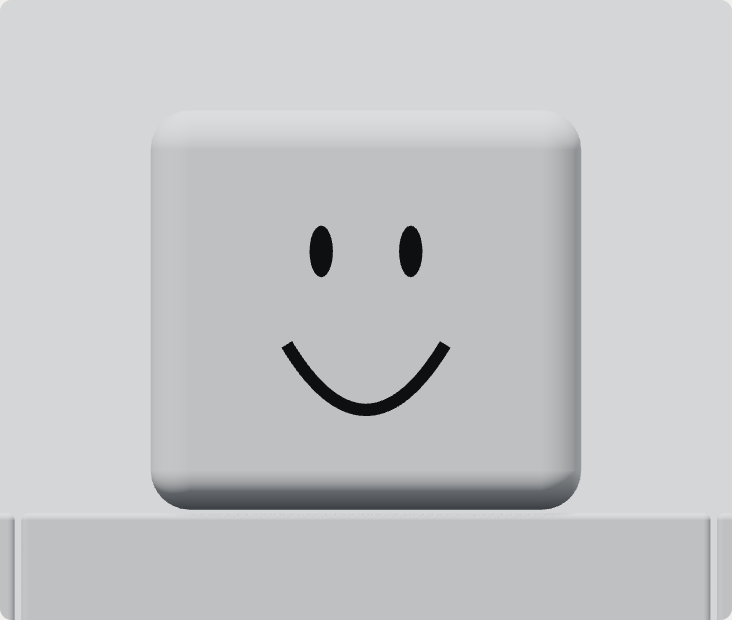
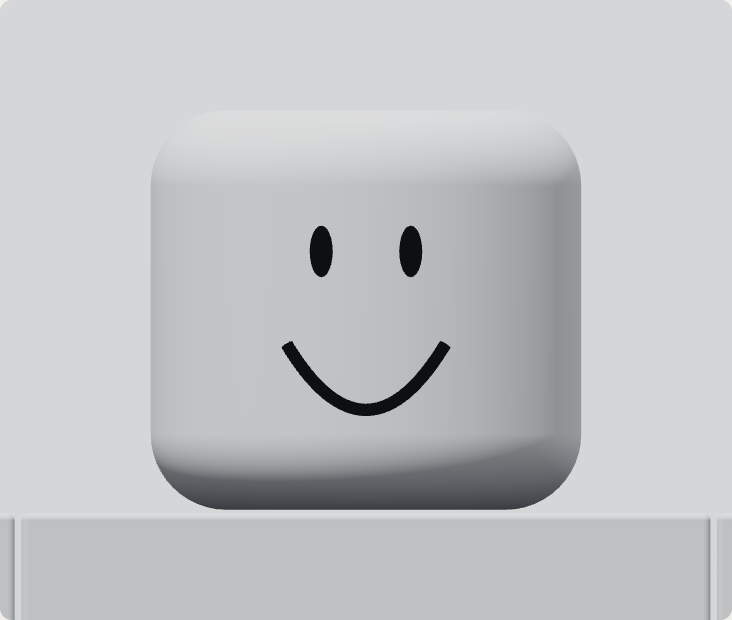
Round canonical head and wrap facial features to match user reference

Changed region(s): [[0.1803, 0.2758, 0.8115, 0.8274], [0.7514, 0.2145, 0.8115, 0.2758], [0.1803, 0.2452, 0.2104, 0.2758]]

diff --git a/tests/api.js b/tests/api.js
@@ -1,6 +1,7 @@
 import assert from 'node:assert/strict';
 import * as THREE from 'three';
 import {createBaseAvatar} from '../avatar/baseAvatar.js';
+import {headFrontZ} from '../avatar/headGeometry.js';
 import {applyPose} from '../avatar/poses.js';
 import {applyFace} from '../appearance/faces.js';
 import {applyAppearance} from '../appearance/appearance.js';
@@ -19,3 +20,10 @@ applyAppearance(a,{color:0xdddddd,pieces:{head:0xffffff},cosmetic:'cap'});const 
 assert.equal(a.root,root);assert.deepEqual(Object.values(a.parts),parts);assert.equal(parts.filter(m=>m.isMesh).length,6);
 assert.throws(()=>applyPose(a,'invalid'));assert.throws(()=>applyFace(a,'invalid'));assert.throws(()=>applyAppearance(a,{cosmetic:'invalid'}));
 console.log('PASS: real Three.js imports, six meshes, five pivots, bounds, deterministic reset, face/cap caches, removal and identity');
+
+assert.equal(a.parts.head.geometry.type,'LatheGeometry');
+const headSize=bounds('head').getSize(new THREE.Vector3());
+assert(Math.abs(headSize.x-1.25)<1e-6 && Math.abs(headSize.y-1.16)<1e-6 && Math.abs(headSize.z-1.1)<1e-6);
+assert(headFrontZ(.23)<headFrontZ(0)-.03,'face must wrap onto curved head');
+for(const child of smile.children){assert(child.geometry.getAttribute('position').array.every(Number.isFinite));}
+console.log('PASS: rounded lathed head dimensions and curved face surface');

diff --git a/appearance/faces.js b/appearance/faces.js
@@ -1,11 +1,12 @@
 import * as THREE from 'three';
+import {headFrontZ} from '../avatar/headGeometry.js';
 function makeFace(name){
  const group=new THREE.Group();group.name=`face_${name}`;
  if(name==='blank')return group;
  const material=new THREE.MeshBasicMaterial({color:0x202124});
- for(const x of [-.13,.13]){const eye=new THREE.Mesh(new THREE.SphereGeometry(1,16,12),material);eye.scale.set(.034,.075,.012);eye.position.set(x,.75,.557);group.add(eye);}
+ for(const x of [-.13,.13]){const eye=new THREE.Mesh(new THREE.SphereGeometry(1,16,12),material);eye.scale.set(.034,.075,.012);eye.position.set(x,.75,headFrontZ(x)+.007);eye.rotation.y=Math.atan2(x/.625**2,headFrontZ(x)/.55**2);group.add(eye);}
  const points=[];
- for(let i=0;i<=32;i++){const x=-.23+.46*i/32;const y=name==='classic_smile'?.29+.19*(x/.23)**2:.42-.13*(x/.23)**2;points.push(new THREE.Vector3(x,y,.558));}
+ for(let i=0;i<=32;i++){const x=-.23+.46*i/32;const y=name==='classic_smile'?.29+.19*(x/.23)**2:.42-.13*(x/.23)**2;points.push(new THREE.Vector3(x,y,headFrontZ(x)+.01));}
  const curve=new THREE.CatmullRomCurve3(points);
  group.add(new THREE.Mesh(new THREE.TubeGeometry(curve,40,.018,8,false),material));return group;
 }

diff --git a/avatar/headGeometry.js b/avatar/headGeometry.js
@@ -1,0 +1,23 @@
+import * as THREE from 'three';
+
+// Original lathed head: oval horizontal section, straight cheeks, softly rolled
+// top/bottom rims and flat caps. Dimensions stay 1.25 × 1.16 × 1.10.
+export function createHeadGeometry() {
+ const radius=.625, halfHeight=.58, rim=.22;
+ const profile=[new THREE.Vector2(0,-halfHeight),new THREE.Vector2(radius-rim,-halfHeight)];
+ for(let i=1;i<=12;i++){
+  const angle=-Math.PI/2+i*Math.PI/24;
+  profile.push(new THREE.Vector2(radius-rim+rim*Math.cos(angle),-halfHeight+rim+rim*Math.sin(angle)));
+ }
+ profile.push(new THREE.Vector2(radius,halfHeight-rim));
+ for(let i=1;i<=12;i++){
+  const angle=i*Math.PI/24;
+  profile.push(new THREE.Vector2(radius-rim+rim*Math.cos(angle),halfHeight-rim+rim*Math.sin(angle)));
+ }
+ profile.push(new THREE.Vector2(0,halfHeight));
+ const geometry=new THREE.LatheGeometry(profile,96);
+ geometry.scale(1,1,1.1/1.25);
+ return geometry;
+}
+// Facial features follow the curved front, instead of floating on a flat plane.
+export function headFrontZ(x){return .55*Math.sqrt(1-(x/.625)**2);}

diff --git a/avatar/baseAvatar.js b/avatar/baseAvatar.js
@@ -1,4 +1,5 @@
 import * as THREE from 'three';
+import {createHeadGeometry} from './headGeometry.js';
 import { RoundedBoxGeometry } from 'three/addons/geometries/RoundedBoxGeometry.js';
 export function block(name, size, color, radius=.02) {
  const mesh=new THREE.Mesh(new RoundedBoxGeometry(...size,4,radius),new THREE.MeshStandardMaterial({color,roughness:.86}));
@@ -10,6 +11,8 @@ export function createBaseAvatar({color=0xbfc1c3}={}) {
  function pivot(name,position){const p=new THREE.Group();p.name=name;p.position.set(...position);root.add(p);pivots[name]=p;return p;}
  part('torso',[2,2,1],root,[0,3.02,0]);
  part('head',[1.25,1.16,1.1],pivot('head',[0,4.03,0]),[0,.58,0],.115);
+ parts.head.geometry.dispose();
+ parts.head.geometry=createHeadGeometry();
  for(const [side,sign] of [['left',-1],['right',1]]){
  part(`${side}Arm`,[.98,1.99,1],pivot(`${side}Shoulder`,[sign*1.51,4.02,0]),[0,-.995,0]);
  part(`${side}Leg`,[.98,2,1],pivot(`${side}Hip`,[sign*.5,2,0]),[0,-1,0]);

diff --git a/STATUS.md b/STATUS.md
@@ -13,7 +13,7 @@ Verified 2026-11-08. F2 has NOT started. F1_SPEC.md remains authoritative.
 ## Genuine browser evidence, visually inspected
 - `evidence/01-front.png`: full neutral gray body, classic curved smile.
 - `evidence/02-threequarter.png`: depth, subtle bevels, six-part silhouette and grounded cast shadow.
-- `evidence/03-side.png`: true orthographic side profile, rectangular limbs, rounded cuboid head.
+- `evidence/03-side.png`: true orthographic side profile, rectangular limbs, rounded oval cylindrical head.
 - `evidence/04-face.png`: small oval eyes and curved stroke, separate from head.
 - `evidence/05-blank.png`: unchanged body with blank face.
 - `evidence/06-cap.png`: cap attached to same head pivot.
@@ -22,9 +22,14 @@ Verified 2026-11-08. F2 has NOT started. F1_SPEC.md remains authoritative.
 - `evidence/09-mobile.png`: phone-size layout and complete silhouette.
 - `evidence/10-small.png`: readable silhouette at about 160px avatar height.
 
-Review: square 2×2 torso, straight aligned arms, equal-length block legs, tiny seams, no extra neck/hands/shoes; head is modestly rounded rather than spherical. Neutral feet touch ground numerically and visually. Three-quarter view exposes the shadow; orthographic front/side intentionally compress the ground plane. Matte gray material and broad neutral lighting preserve simple forms. Compared visually with the four reference images visible in this task conversation; reference files are not in the repository and no pixel-exact match is claimed.
+Review: square 2×2 torso, straight aligned arms, equal-length block legs, tiny seams, no extra neck/hands/shoes; head is a softly rounded oval cylinder rather than a box or sphere. Neutral feet touch ground numerically and visually. Three-quarter view exposes the shadow; orthographic front/side intentionally compress the ground plane. Matte gray material and broad neutral lighting preserve simple forms. Compared visually with the four reference images visible in this task conversation; reference files are not in the repository and no pixel-exact match is claimed.
 
 Targeted fixes: API bounds check now updates the ancestor world transforms before measuring child meshes. Initial phone framing clipped the arms; aspect-aware camera fitting fixed it and browser captures were rerun successfully.
 
 ## Limits / remaining issues
 No blocking F1 issues found. Lighting uses inexpensive directional shadow maps, with a fairly defined shadow edge rather than offline-render contact shading. The facial strokes slightly protrude in true side view. These are deliberate lightweight preview tradeoffs. Walk is a deterministic pose demo only, without planted feet, IK or root motion. Native iPad/Safari GPU execution was not tested; responsive Chromium was. No public deployment was created; the documented HTTP preview satisfies gate C. Legacy source remains unused and preserved, alongside its existing Git history. No video, audio, story, or F2 implementation is claimed.
+
+## User head correction (2026-11-08)
+The user rejected the original box-like head. Replaced the rounded box with an original 96-segment lathed oval cylinder, 1.25 × 1.16 × 1.10, with .22-unit rounded rims. This removes square horizontal corners instead of merely increasing a box bevel. Eyes and mouth now follow the curved surface. Updated the authoritative spec and operating rules to prevent reverting to the superseded head design.
+
+Re-ran `npm test` (including head geometry/dimension and curved-face checks), `npm run test:browser`, and source syntax checks. All passed. Regenerated and visually inspected all ten evidence images, including cap fit, blank face, true side and mobile views. Six body meshes, pivots and attachment identity remain stable. F1 remains PASS; user aesthetic approval is separate from executed technical checks. F2 remains on hold. No exact proprietary mesh match is claimed.

diff --git a/F1_SPEC.md b/F1_SPEC.md
@@ -2,6 +2,9 @@
 Status: **SPECIFICATION APPROVED FOR IMPLEMENTATION, NOT YET IMPLEMENTED OR VISUALLY VERIFIED**.
 Supersedes the former F1 Kai/Mira-first design. Date: 2026-11-08.
 
+## Head correction — user-approved revision (2026-11-08)
+The latest user reference overrides the earlier rounded-cuboid head requirement: use an original softly rounded cylindrical/oval head, with straight cheeks, rounded top/bottom rims and flat caps. Keep the existing dimensions and six-part body. Facial features must follow its curved front surface. This correction remains F1; F2 is on hold.
+
 ## Purpose and locked direction
 Produce **one** reusable, neutral, instantly recognizable, classic R6-like *block figure* in vanilla Three.js. The supplied four user images are the creative reference: plain gray/white avatar with rectangular torso/arms/legs, modestly rounded box head, faint bevels and optional minimal smile. One body rig drives all future characters. Hair, clothing, facial choices, accessories and colors are **swappable appearance layers**; they must never define the underlying anatomy. Characterization is a later demonstration, not the F1 acceptance subject.
 
@@ -19,14 +22,14 @@ The images are visual references supplied in the ChatGPT conversation and **may 
 
 ## Visual contract: the *undressed* master
 - **One six-part block silhouette:** head, torso, left/right arms, left/right legs. No separated hands, sculpted shoes, chest anatomy, visible neck tube, fingers, elbows, knees or clothes on the base.
-- Geometry: subtly beveled rectangular prisms, **not cylinders or spheres for limbs**; head is a rounded cuboid, NOT a sphere. Blocks visually nearly touch with tiny intentional joint seams, no detached "floating cubes."
+- Geometry: subtly beveled rectangular prisms, **not cylinders or spheres for limbs**; head is a softly rounded oval cylinder per the user correction, NOT a sphere. Blocks visually nearly touch with tiny intentional joint seams, no detached "floating cubes."
 - Proportion **starting targets** (arbitrary world units; tune against reference renders):
   - torso **2.00 W × 2.00 H × 1.00 D**;
   - head **1.20–1.30 W × 1.12–1.20 H × 1.05–1.15 D**;
   - each arm **0.95–1.00 W × 1.95–2.00 H × 1.00 D**;
   - each leg **0.95–1.00 W × 1.95–2.00 H × 1.00 D**.
   - head centered above torso; arms straight at sides and top-aligned with torso; legs start at torso bottom; symmetric centered stance. Body height about 5.1 units, feet on y=0.
-  - bevel radius on torso/limbs about **1–3%** of the smallest dimension, head **8–12%**; adjust for image match, not decorative smoothness.
+  - bevel radius on torso/limbs about **1–3%** of the smallest dimension, head rim **about 19% of head height**; adjust for image match, not decorative smoothness.
 - Base material: neutral light-gray matte plastic on all parts; mild AO-like contact shading through lights/shadows if available. No realistic skin, fabric texture, gradients painted onto mesh, or reflective chrome.
 - Face: separate replaceable layer attached to the head; default **classic_smile** (two small oval dark eyes, one thin curved dark smile); also **blank** and **worried**. Keep facial features on the frontal (+Z) head surface; smile should be a true curved stroke/mesh (not a straight bar). No facial features built into the body/head geometry.
 - Clean readable silhouette at ~160 px avatar height. Avoid dramatic perspective, very narrow shoulders, excessive bevels, overlong legs, huge eyes or heavy eyebrows.

diff --git a/AGENTS.md b/AGENTS.md
@@ -8,7 +8,7 @@ One neutral classic R6-like **six-part** block avatar first, then removable appe
 ## Scope discipline
 - F1 ONLY. Do not implement episodes, F2/F3/F4, MP4, Blender, Roblox Studio, Remotion, soundtrack, environment library or full wardrobe.
 - Keep existing source committed while migrating. Old `character.js` and Kai/Mira presets are legacy, not the F1 goal. Preserve functionality via history and replace paths only when the new implementation is testable.
-- Start with the neutral master, not two customized figures. Use simple proportions from F1_SPEC.md, with one rounded cuboid head and five beveled rectangular blocks.
+- Start with the neutral master, not two customized figures. Use simple proportions from F1_SPEC.md, with one softly rounded oval cylindrical head (latest user correction in F1_SPEC.md) and five beveled rectangular blocks.
 - No required full rig or separate fingers, hands, shoes or neck meshes. Distinct styling belongs to appearance layers.
 - Keep a simple vanilla Three.js ES module preview; currently pinned 0.187.0. A minimal test server/dependency install is fine when justified; avoid framework rebuild.
 - Keep deterministic `applyPose(avatar,poseName,t)`, persistent root and named pivots. No mesh regeneration when switching pose/face/cosmetic. Use caches and attach/detach layers as appropriate.

diff --git a/README.md b/README.md
@@ -1,5 +1,5 @@
 # BlockStory — F1 v3
-One neutral six-part block avatar in vanilla Three.js 0.187.0. **F1 PASS**: real API tests and Chromium WebGL captures completed. See [STATUS.md](STATUS.md) for evidence and limits. F2 has not started.
+One neutral six-part block avatar with a softly rounded oval cylindrical head in vanilla Three.js 0.187.0. **F1 PASS**: real API tests and Chromium WebGL captures completed. See [STATUS.md](STATUS.md) for evidence and limits. F2 has not started.
 
 ## Preview and verification
 Developer reproduction (Codex has already run these; no iPad installation is required):
